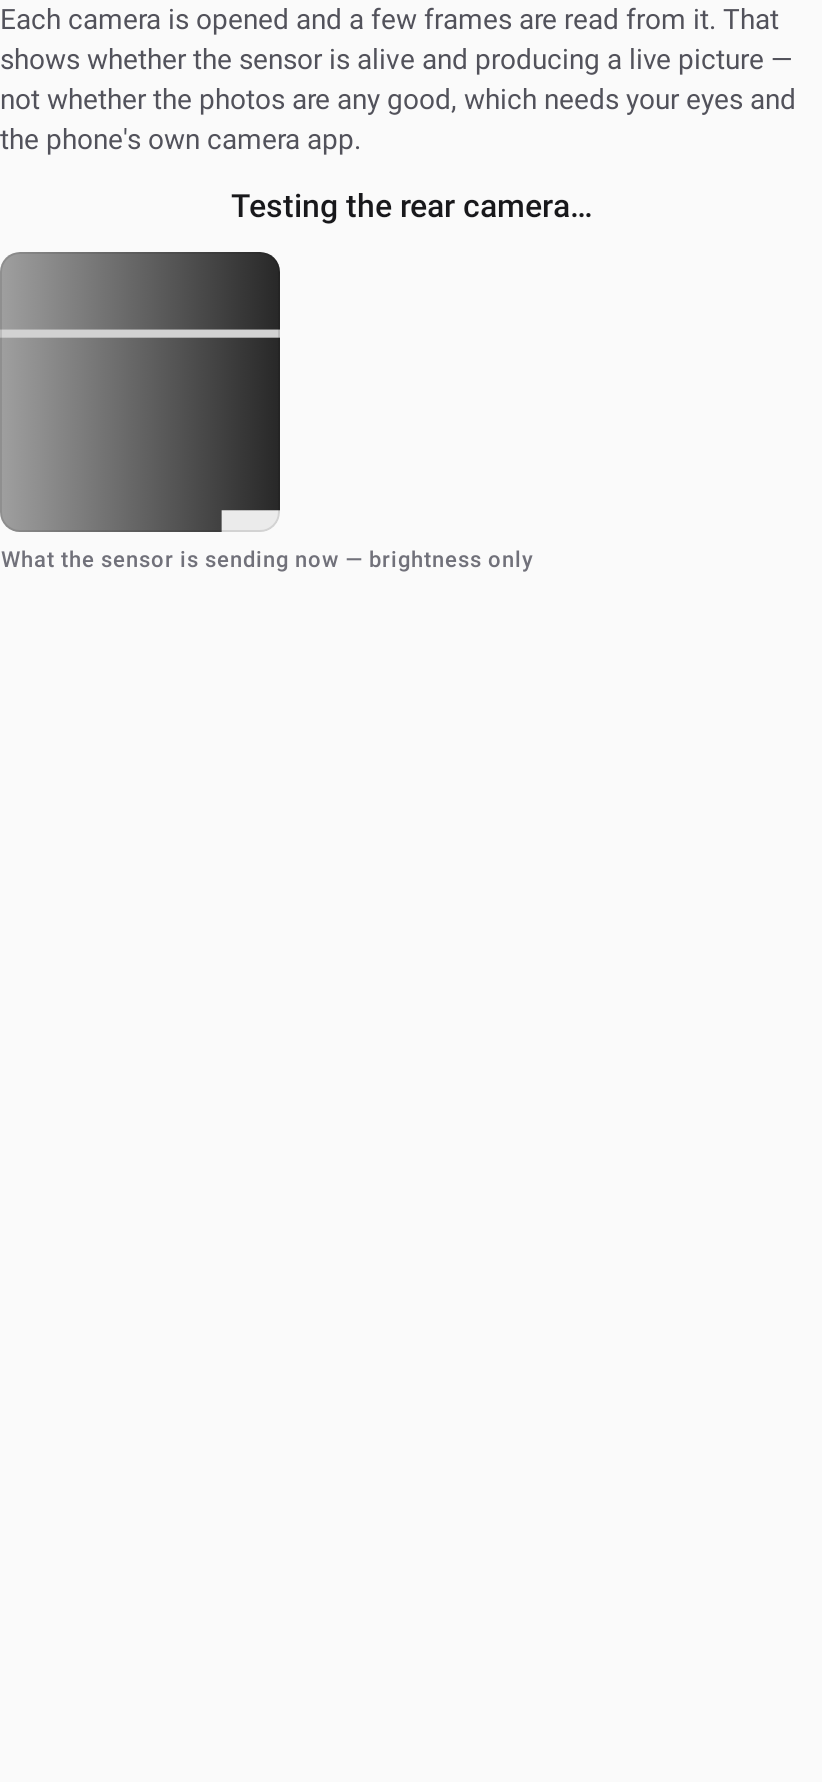
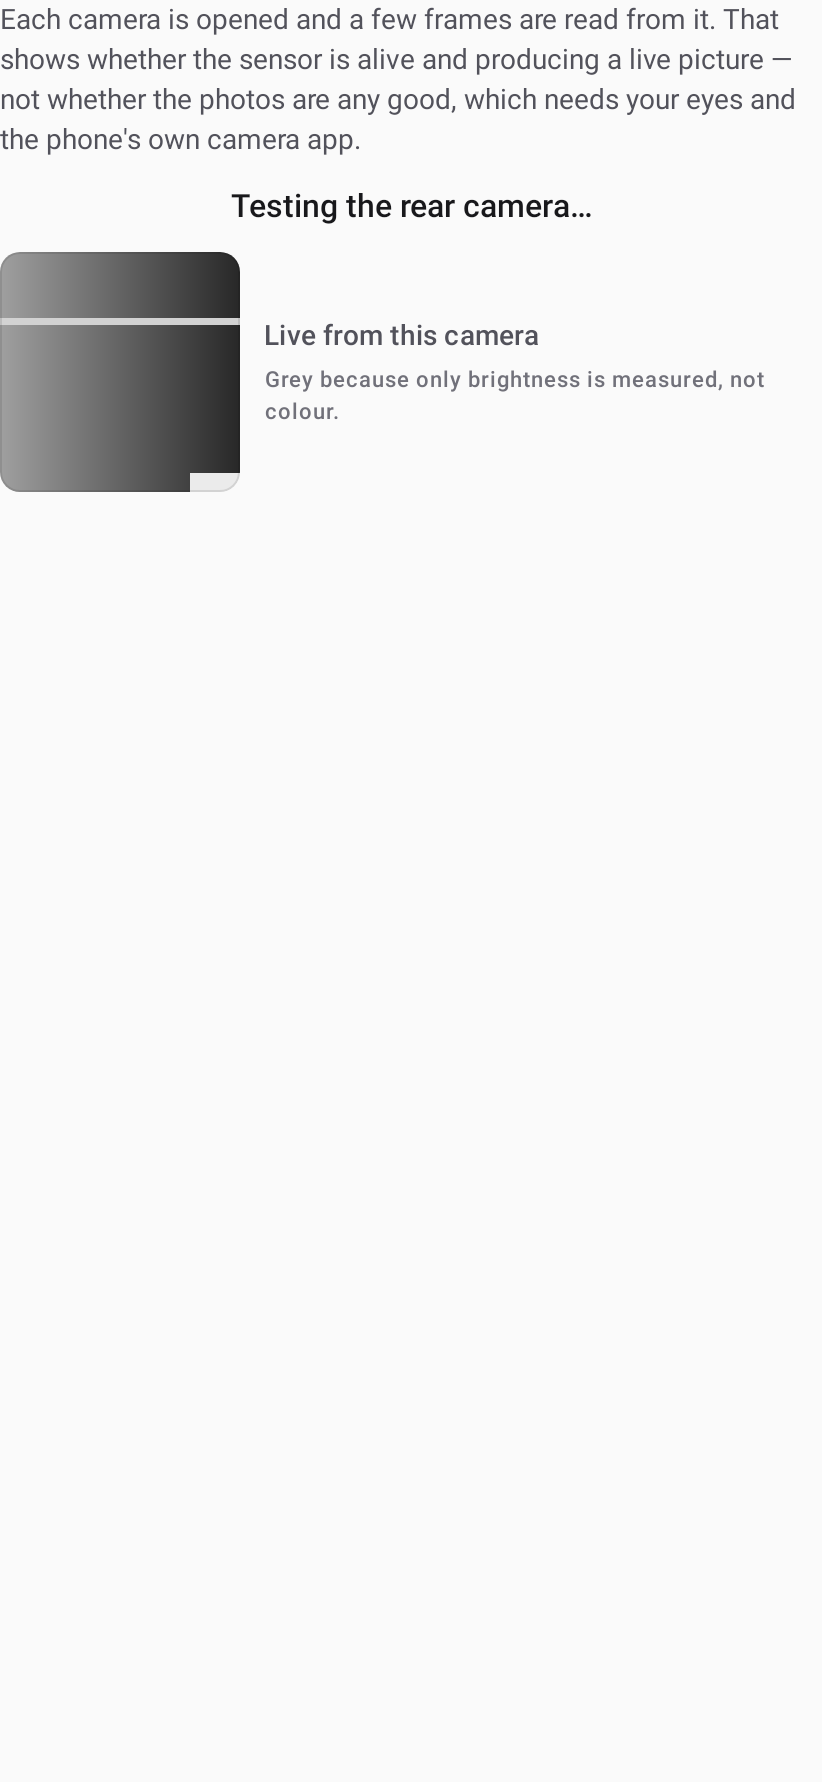
Make the camera test frame prove the rotation instead of looking broken
The first fixture put a bright block flush into a corner. It rendered correctly and
looked like a clipping bug, because the block's own square edges read as a broken
rounded corner. A test fixture that looks like a defect is worse than none.

Now a bright disc inset in the upper-left quadrant, which never touches the clip
and whose position on screen says which way the frame was turned.

diff --git a/feature/cameratest/src/test/kotlin/com/phoneproof/feature/cameratest/CameraTestScreenshotTest.kt b/feature/cameratest/src/test/kotlin/com/phoneproof/feature/cameratest/CameraTestScreenshotTest.kt
@@ -88,39 +88,34 @@ class CameraTestScreenshotTest {
     )
 
     /**
-     * A frame that looks like something rather than like a test pattern.
+     * A frame with a marker in a known place, so the render proves the rotation is right.
      *
-     * A flat grey square would render fine and prove nothing: the things worth reviewing are whether the
-     * crop, the rotation and the greyscale caption read correctly against a picture with structure in it.
-     * So this is a lit gradient with a hard edge and a bright corner — roughly a shop ceiling.
+     * The first version put a bright block flush into one corner. It rendered correctly and looked like a
+     * clipping bug — the block's own square edges read as a broken rounded corner — which made the review
+     * harder rather than easier. A test fixture that looks like a defect is worse than no fixture.
+     *
+     * So: a soft gradient, one vertical bar, and a bright disc inset in the upper-left quadrant. The disc
+     * never touches the clip, and where it ends up on screen says which way the frame was turned — upper
+     * left means no rotation, upper right means 90 degrees, and so on.
      */
     private fun sceneFrame(width: Int = 320, height: Int = 240): ImageBitmap {
+        val discX = width / 4
+        val discY = height / 4
+        val discRadius = height / 8
+
         val pixels = IntArray(width * height) { index ->
             val x = index % width
             val y = index / width
-            val gradient = 40 + (y * 120 / height)
-            val edge = if (x in (width / 3)..(width / 3 + 6)) 210 else gradient
-            val corner = if (x > width - 60 && y < 50) 235 else edge
-            val value = corner.coerceIn(0, 255)
+
+            val gradient = 45 + (y * 110 / height)
+            val bar = if (x in (width * 2 / 3)..(width * 2 / 3 + 8)) 165 else gradient
+            val dx = x - discX
+            val dy = y - discY
+            val value = if (dx * dx + dy * dy < discRadius * discRadius) 240 else bar
+
             0xFF shl 24 or (value shl 16) or (value shl 8) or value
         }
         return Bitmap.createBitmap(pixels, width, height, Bitmap.Config.ARGB_8888).asImageBitmap()
-    }
-
-    private fun render(name: String, state: CameraTestUiState, themeMode: ThemeMode = ThemeMode.LIGHT) {
-        composeRule.setContent {
-            PhoneProofTheme(themeMode = themeMode) {
-                CameraTestScreen(
-                    state = state,
-                    onTestCameras = {},
-                    onLightTorch = {},
-                    onAnswerLit = {},
-                    onRestart = {},
-                    modifier = Modifier.fillMaxSize(),
-                )
-            }
-        }
-        composeRule.onRoot().captureRoboImage("$outputDir/camera-$name.png")
     }
 
     @Test
